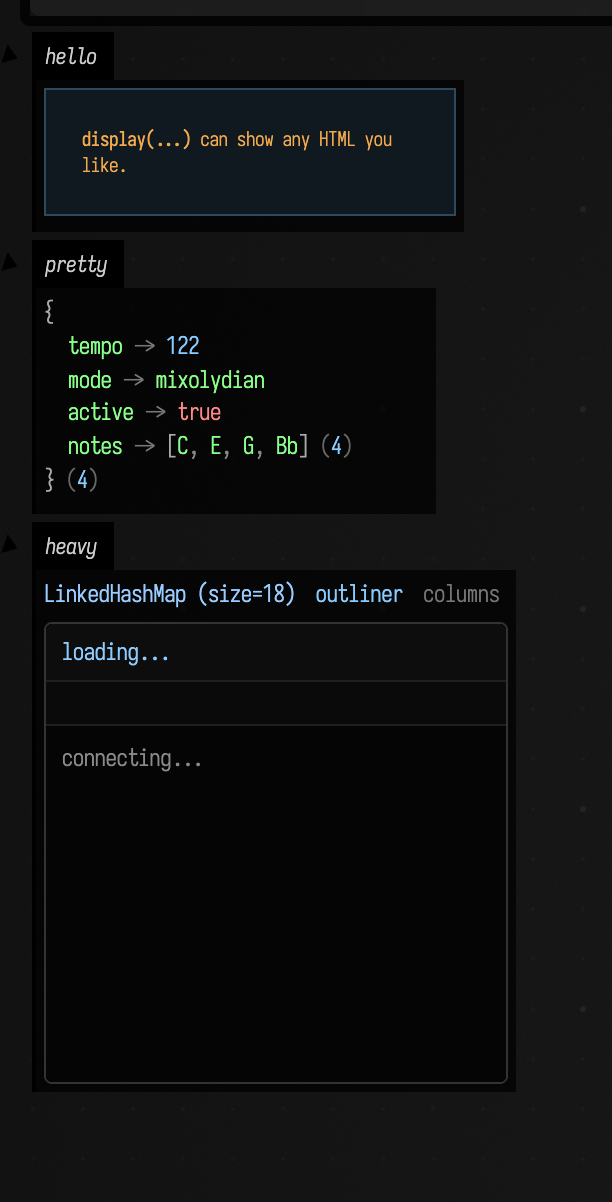
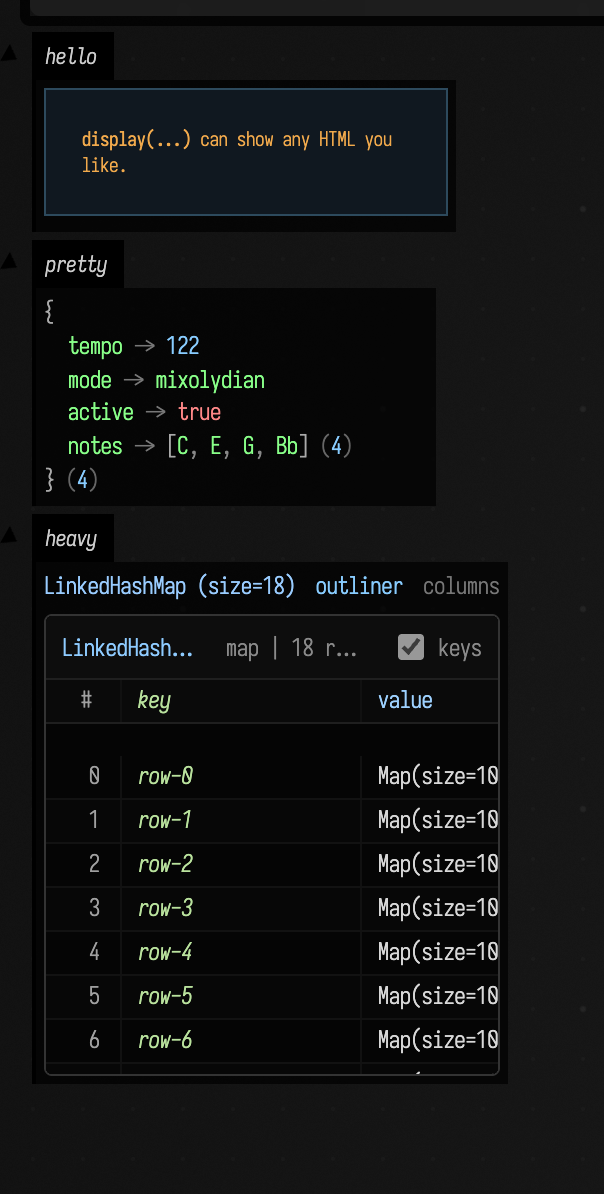
fix(docs-capture): settle output geometry before measuring, and see ARIA busy state
Two capture-harness changes, and an honest account of what each does and does not
fix.

SETTLE BEFORE MEASURING. Box and window prep now waits for the output's GEOMETRY
to stop changing before anything is measured or shot -- SCREENSHOT_STABLE_SAMPLES
consecutive equal samples, bounded by SCREENSHOT_STABLE_TIMEOUT_MS. The signature
is deliberately sizes-only and blind to pixel content, which is the design point
rather than a shortcut: a clip is computed from geometry, so geometry is what must
settle, and a widget animating inside a fixed-size canvas (a meter, a scrolling
history, a playhead) therefore reads as stable instead of stalling the capture
waiting for motion that never stops.

Measured effect: visualizers-recorded-audio.png 1136x580 -> 2172x580, i.e. the
whole widget instead of a partial one, and visualizers-display-html.png settles
612x1202 -> 604x1194.

WHAT IT DOES NOT FIX, stated because I claimed otherwise before checking:
the 'Signal and synth visualizers' padding is UNCHANGED at 1164x1984 with ~1000px
of empty black below ~950px of content. Settling the geometry does not help when
the settled geometry is itself too big: collectScreenshotRects (Main.kt) unions
box.getBoundingClientRect(), so a box element taller than its content pads the
clip by construction. Fixing that means measuring content rather than containers,
and it is still open.

SEE ARIA BUSY STATE. Widens the blocked-status scan to [role="status"] and
[…]

diff --git a/src/jvmMain/kotlin/afield/docs/screenshot.kt b/src/jvmMain/kotlin/afield/docs/screenshot.kt
@@ -29,6 +29,19 @@ import javax.imageio.ImageIO
 private const val SCREENSHOT_PREP_TIMEOUT_MS = 12_000
 private const val SCREENSHOT_POLL_INTERVAL_MS = 60
 private const val SCREENSHOT_OUTPUT_GRACE_MS = 2_500
+
+/**
+ * How long to wait for a box's output layout to STOP MOVING before measuring and shooting.
+ *
+ * `wait=` in a fence is an author's guess at how long content takes to appear, and a guess that is
+ * too short produces two failures at once: the picture is of a half-built widget, and the clip is
+ * measured from a container that had not finished growing. Both shipped -- a waveform published as a
+ * blur, and a signal-panel capture with a thousand pixels of empty black below its content.
+ */
+private const val SCREENSHOT_STABLE_TIMEOUT_MS = 8_000
+
+/** Consecutive equal geometry samples that count as "layout has settled". */
+private const val SCREENSHOT_STABLE_SAMPLES = 3
 private const val PLAYWRIGHT_SCREENSHOT_TIMEOUT_MS = 15_000.0
 private const val PLAYWRIGHT_VIDEO_FRAME_TIMEOUT_MS = 120_000.0
 
@@ -544,6 +557,65 @@ private fun requestBoxScreenshot(page: Page, req: BoxScreenshotRequest): BoxScre
               return true;
             }
           };
+          /**
+           * A GEOMETRY signature of the laid-out output: sizes only, never pixel content.
+           *
+           * Sizes are what a clip is computed from, so this is exactly the quantity that must stop
+           * changing before a shot is taken. Deliberately blind to pixels, so a widget that animates
+           * inside a fixed-size canvas -- a meter, a scrolling history, a playhead -- reads as stable
+           * and does not stall the capture waiting for motion that never stops.
+           */
+          const contentSignature = (root) => {
+            const outputArea = root.querySelector(".outputArea");
+            if (!outputArea) return null;
+            const parts = [];
+            const push = (el) => {
+              const r = el.getBoundingClientRect();
+              parts.push(Math.round(r.width) + "x" + Math.round(r.height));
+            };
+            push(outputArea);
+            Array.from(outputArea.querySelectorAll(".disclosure, canvas, svg, img, iframe")).forEach(push);
+            parts.push(outputArea.scrollWidth + "/" + outputArea.scrollHeight);
+            return parts.join(",");
+          };
+          /**
+           * The status text a READER can actually see, which is the only kind that should hold a shot.
+           *
+           * Two halves matter equally. The selector must include `[role="status"]` and
+           * `[aria-busy="true"]`, because a widget that announces busy-ness the standard ARIA way was
+           * invisible to a `.status`/`#status` scan -- that is how the recorded-audio capture shipped
+           * as a blur while a "loading waveform" badge sat in the corner of the very same picture. And
+           * the visibility filter is not optional: these badges stay in the DOM with `aria-hidden` set
+           * once they finish, so matching their text alone would block every audio capture forever.
+           */
+          const visibleStatusTexts = (outputArea) => {
+            const selector = 'svg text, .status, #status, [role="status"], [aria-busy="true"]';
+            return Array.from(outputArea.querySelectorAll(selector))
+              .filter((node) => {
+                if (node.getAttribute && node.getAttribute("aria-hidden") === "true") return false;
+                const rect = node.getBoundingClientRect ? node.getBoundingClientRect() : null;
+                if (rect && rect.width < 1 && rect.height < 1) return false;
+                const view = node.ownerDocument && node.ownerDocument.defaultView;
+                const style = view && view.getComputedStyle ? view.getComputedStyle(node) : null;
+                if (style && (style.display === "none" || style.visibility === "hidden" || style.opacity === "0")) {
+                  return false;
+                }
+                return true;
+              })
+              .map((node) => String(node.textContent || "").trim())
+              .filter((text) => text.length > 0);
+          };
+          /** Has the output actually been laid out, as opposed to existing at zero size? */
+          const contentLaidOut = (root) => {
+            const outputArea = root.querySelector(".outputArea");
+            if (!outputArea) return false;
+            if (outputArea.style.visibility === "hidden") return true;
+            const r = outputArea.getBoundingClientRect();
+            if (r.width < 1 || r.height < 1) return false;
+            const imgs = Array.from(outputArea.querySelectorAll("img"));
+            if (imgs.some((img) => !img.complete || img.naturalWidth === 0)) return false;
+            return true;
+          };
           const outputsReady = (root) => {
             if (!root) {
               return false;
@@ -557,10 +629,7 @@ private fun requestBoxScreenshot(page: Page, req: BoxScreenshotRequest): BoxScre
             if (iframes.some((iframe) => !iframeNavigated(iframe) || !iframeReady(iframe))) {
               return false;
             }
-            const statusTexts = Array.from(outputArea.querySelectorAll("svg text, .status, #status"))
-              .map((node) => String(node.textContent || "").trim())
-              .filter((text) => text.length > 0);
-            return !statusTexts.some(blockedStatusText);
+            return !visibleStatusTexts(outputArea).some(blockedStatusText);
           };
           const deadline = Date.now() + ${SCREENSHOT_PREP_TIMEOUT_MS};
           let lastMessage = "Timed out waiting for box screenshot prep";
@@ -586,6 +655,32 @@ private fun requestBoxScreenshot(page: Page, req: BoxScreenshotRequest): BoxScre
                 if (currentBox && outputsReady(currentBox)) {
                   break;
                 }
+                await sleep(${SCREENSHOT_POLL_INTERVAL_MS});
+              }
+              // Ready is not the same as settled. Wait for the GEOMETRY to stop changing before
+              // anything is measured or shot, so the clip is computed from finished layout rather
+              // than from a container still growing under it.
+              const stableDeadline = Date.now() + ${SCREENSHOT_STABLE_TIMEOUT_MS};
+              let previousSignature = null;
+              let stableSamples = 0;
+              while (Date.now() < stableDeadline) {
+                if (!pageReady()) {
+                  break;
+                }
+                const currentBox = findBox(request.uid);
+                if (!currentBox) {
+                  break;
+                }
+                const signature = contentSignature(currentBox);
+                if (contentLaidOut(currentBox) && signature !== null && signature === previousSignature) {
+                  stableSamples += 1;
+                  if (stableSamples >= ${SCREENSHOT_STABLE_SAMPLES}) {
+                    break;
+                  }
+                } else {
+                  stableSamples = 0;
+                }
+                previousSignature = signature;
                 await sleep(${SCREENSHOT_POLL_INTERVAL_MS});
               }
             }
@@ -752,6 +847,65 @@ private fun requestWindowScreenshot(page: Page, req: WindowScreenshotRequest): W
               return true;
             }
           };
+          /**
+           * A GEOMETRY signature of the laid-out output: sizes only, never pixel content.
+           *
+           * Sizes are what a clip is computed from, so this is exactly the quantity that must stop
+           * changing before a shot is taken. Deliberately blind to pixels, so a widget that animates
+           * inside a fixed-size canvas -- a meter, a scrolling history, a playhead -- reads as stable
+           * and does not stall the capture waiting for motion that never stops.
+           */
+          const contentSignature = (root) => {
+            const outputArea = root.querySelector(".outputArea");
+            if (!outputArea) return null;
+            const parts = [];
+            const push = (el) => {
+              const r = el.getBoundingClientRect();
+              parts.push(Math.round(r.width) + "x" + Math.round(r.height));
+            };
+            push(outputArea);
+            Array.from(outputArea.querySelectorAll(".disclosure, canvas, svg, img, iframe")).forEach(push);
+            parts.push(outputArea.scrollWidth + "/" + outputArea.scrollHeight);
+            return parts.join(",");
+          };
+          /**
+           * The status text a READER can actually see, which is the only kind that should hold a shot.
+           *
+           * Two halves matter equally. The selector must include `[role="status"]` and
+           * `[aria-busy="true"]`, because a widget that announces busy-ness the standard ARIA way was
+           * invisible to a `.status`/`#status` scan -- that is how the recorded-audio capture shipped
+           * as a blur while a "loading waveform" badge sat in the corner of the very same picture. And
+           * the visibility filter is not optional: these badges stay in the DOM with `aria-hidden` set
+           * once they finish, so matching their text alone would block every audio capture forever.
+           */
+          const visibleStatusTexts = (outputArea) => {
+            const selector = 'svg text, .status, #status, [role="status"], [aria-busy="true"]';
+            return Array.from(outputArea.querySelectorAll(selector))
+              .filter((node) => {
+                if (node.getAttribute && node.getAttribute("aria-hidden") === "true") return false;
+                const rect = node.getBoundingClientRect ? node.getBoundingClientRect() : null;
+                if (rect && rect.width < 1 && rect.height < 1) return false;
+                const view = node.ownerDocument && node.ownerDocument.defaultView;
+                const style = view && view.getComputedStyle ? view.getComputedStyle(node) : null;
+                if (style && (style.display === "none" || style.visibility === "hidden" || style.opacity === "0")) {
+                  return false;
+                }
+                return true;
+              })
+              .map((node) => String(node.textContent || "").trim())
+              .filter((text) => text.length > 0);
+          };
+          /** Has the output actually been laid out, as opposed to existing at zero size? */
+          const contentLaidOut = (root) => {
+            const outputArea = root.querySelector(".outputArea");
+            if (!outputArea) return false;
+            if (outputArea.style.visibility === "hidden") return true;
+            const r = outputArea.getBoundingClientRect();
+            if (r.width < 1 || r.height < 1) return false;
+            const imgs = Array.from(outputArea.querySelectorAll("img"));
+            if (imgs.some((img) => !img.complete || img.naturalWidth === 0)) return false;
+            return true;
+          };
           const outputsReady = (root) => {
             if (!root) {
               return false;
@@ -765,10 +919,7 @@ private fun requestWindowScreenshot(page: Page, req: WindowScreenshotRequest): W
             if (iframes.some((iframe) => !iframeNavigated(iframe) || !iframeReady(iframe))) {
               return false;
             }
-            const statusTexts = Array.from(outputArea.querySelectorAll("svg text, .status, #status"))
-              .map((node) => String(node.textContent || "").trim())
-              .filter((text) => text.length > 0);
-            return !statusTexts.some(blockedStatusText);
+            return !visibleStatusTexts(outputArea).some(blockedStatusText);
           };
           if (request.showEditor && !request.uid) {
             return JSON.stringify({
@@ -802,6 +953,30 @@ private fun requestWindowScreenshot(page: Page, req: WindowScreenshotRequest): W
                   if (currentBox && outputsReady(currentBox)) {
                     break;
                   }
+                  await sleep(${SCREENSHOT_POLL_INTERVAL_MS});
+                }
+                // Ready is not settled -- see the box path. Wait for geometry to stop moving.
+                const stableDeadline = Date.now() + ${SCREENSHOT_STABLE_TIMEOUT_MS};
+                let previousSignature = null;
+                let stableSamples = 0;
+                while (Date.now() < stableDeadline) {
+                  if (!pageReady()) {
+                    break;
+                  }
+                  const currentBox = findBox(request.uid);
+                  if (!currentBox) {
+                    break;
+                  }
+                  const signature = contentSignature(currentBox);
+                  if (contentLaidOut(currentBox) && signature !== null && signature === previousSignature) {
+                    stableSamples += 1;
+                    if (stableSamples >= ${SCREENSHOT_STABLE_SAMPLES}) {
+                      break;
+                    }
+                  } else {
+                    stableSamples = 0;
+                  }
+                  previousSignature = signature;
                   await sleep(${SCREENSHOT_POLL_INTERVAL_MS});
                 }
               }
